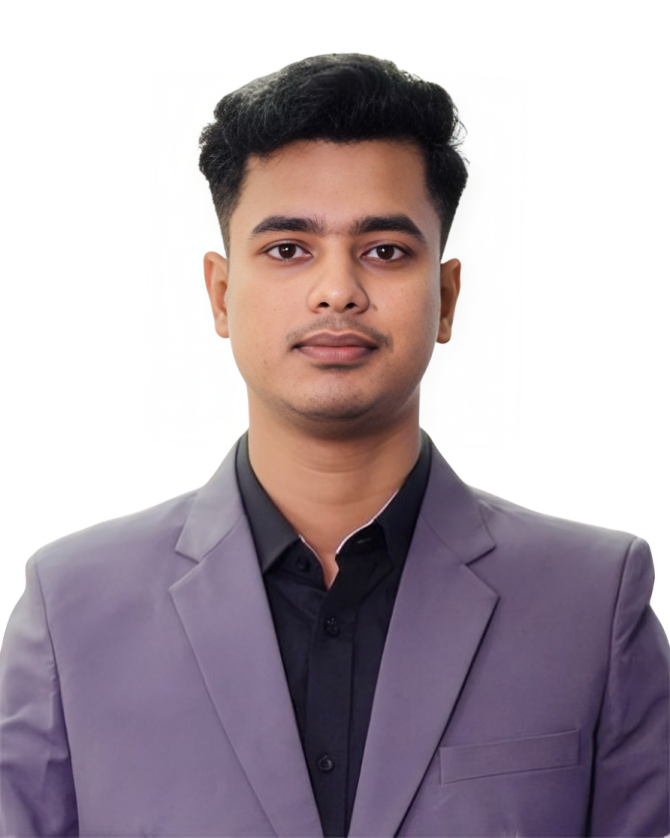
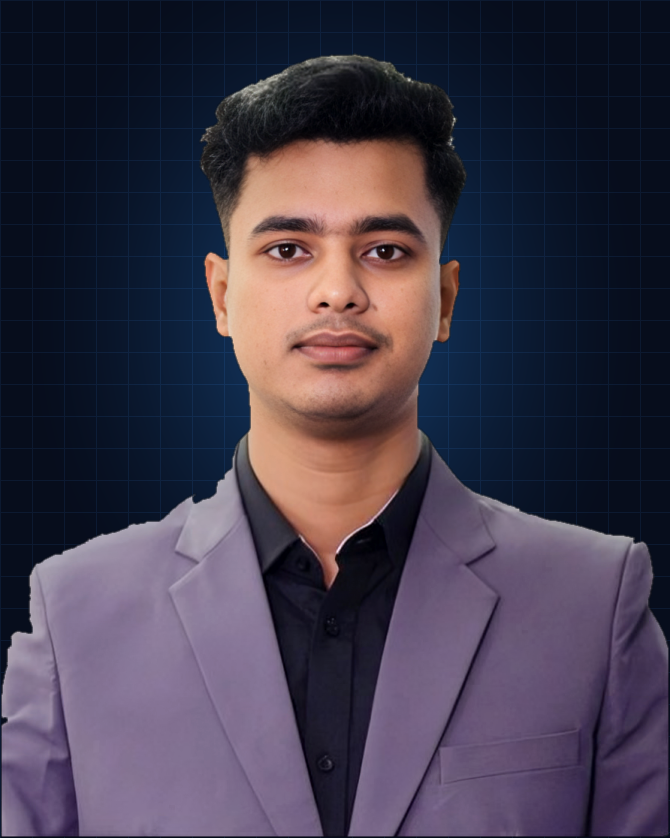
fix(ui): studio dark-cyber portrait, photo gallery switcher, local SVG telemetry, and 1-click social contact buttons

diff --git a/index.html b/index.html
@@ -190,6 +190,7 @@
         <a href="#bento" class="px-3.5 py-1.5 rounded-lg hover:bg-slate-800 hover:text-sky-400 transition">Architecture</a>
         <a href="#projects" class="px-3.5 py-1.5 rounded-lg hover:bg-slate-800 hover:text-sky-400 transition">Projects</a>
         <a href="#terminal-section" class="px-3.5 py-1.5 rounded-lg hover:bg-slate-800 hover:text-sky-400 transition">AI CLI</a>
+        <a href="#gallery" class="px-3.5 py-1.5 rounded-lg hover:bg-slate-800 hover:text-sky-400 transition">Photos</a>
         <a href="#stats" class="px-3.5 py-1.5 rounded-lg hover:bg-slate-800 hover:text-sky-400 transition">GitHub Metrics</a>
         <a href="#contact" class="px-3.5 py-1.5 rounded-lg hover:bg-slate-800 hover:text-sky-400 transition">Contact</a>
       </nav>
@@ -300,6 +301,7 @@
             <!-- Portrait Container -->
             <div class="relative w-64 h-64 sm:w-72 sm:h-72 lg:w-80 lg:h-80 rounded-3xl overflow-hidden bg-gradient-to-b from-slate-800/80 to-slate-950 border-2 border-sky-400/40 shadow-2xl shadow-sky-500/20 group">
               <img 
+                id="hero-portrait-img"
                 src="sabbir-avatar.png" 
                 width="320"
                 height="320"
@@ -688,23 +690,75 @@
 
         <div class="grid md:grid-cols-2 gap-6 mb-6">
           <div class="bento-card rounded-3xl p-4 flex items-center justify-center">
-            <img class="w-full max-w-md" loading="lazy" src="https://github-readme-stats.vercel.app/api?username=sabbirhossain-git&show_icons=true&theme=tokyonight&include_all_commits=true&count_private=true&hide_border=true&bg_color=00000000&title_color=38BDF8&icon_color=2DD4BF&text_color=E2E8F0" alt="Sabbir Hossain GitHub Stats" />
+            <img class="w-full max-w-md" loading="lazy" src="assets/img/github-stats.svg" alt="Sabbir Hossain GitHub Stats" />
           </div>
           <div class="bento-card rounded-3xl p-4 flex items-center justify-center">
-            <img class="w-full max-w-md" loading="lazy" src="https://streak-stats.demolab.com?user=sabbirhossain-git&theme=tokyonight&hide_border=true&background=00000000&ring=38BDF8&fire=2DD4BF&currStreakLabel=38BDF8" alt="Sabbir Hossain GitHub Streak" />
+            <img class="w-full max-w-md" loading="lazy" src="assets/img/github-langs.svg" alt="Sabbir Hossain Core Languages" />
           </div>
         </div>
 
         <!-- Contribution Snake Card -->
         <div class="bento-card rounded-3xl p-6 text-center">
-          <div class="text-xs font-mono text-sky-400 mb-3">AUTOMATED GITHUB ACTIONS CONTRIBUTION SNAKE</div>
+          <div class="text-xs font-mono text-sky-400 mb-3">AUTOMATED GITHUB CONTRIBUTION TELEMETRY MATRIX</div>
           <img 
             class="mx-auto w-full max-w-4xl" 
             loading="lazy"
-            src="https://raw.githubusercontent.com/sabbirhossain-git/sabbirhossain-git/output/github-contribution-grid-snake-dark.svg" 
-            onerror="this.onerror=null; this.src='https://github-readme-activity-graph.vercel.app/graph?username=sabbirhossain-git&bg_color=0D1117&color=38BDF8&line=2DD4BF&point=FFFFFF&area=true&hide_border=true';"
-            alt="GitHub Contribution Snake Animation" 
+            src="assets/img/github-snake.svg" 
+            alt="GitHub Contribution Matrix Animation" 
           />
+        </div>
+      </div>
+    </section>
+
+    <!-- PHOTO GALLERY & PORTRAIT SWITCHER SECTION -->
+    <section id="gallery" class="relative z-10 py-24 px-6 border-t border-slate-800/60">
+      <div class="max-w-6xl mx-auto reveal">
+        <div class="text-center max-w-2xl mx-auto mb-14">
+          <span class="font-mono text-xs uppercase tracking-widest text-purple-400 bg-purple-500/10 border border-purple-500/20 px-3 py-1 rounded-full">04.5 // Portrait &amp; Moments Gallery</span>
+          <h2 class="text-3xl sm:text-5xl font-black text-white mt-4 tracking-tight">Photos &amp; Identity</h2>
+          <p class="text-slate-400 mt-2 text-sm">Click any portrait below to preview it in the 3D Hero Portal above. Ready for adding future event, robotics lab, and project photos.</p>
+        </div>
+
+        <div class="grid grid-cols-2 md:grid-cols-4 gap-6">
+          <button onclick="document.getElementById('hero-portrait-img').src='sabbir-avatar.png'; window.location.hash='#hero';" class="bento-card rounded-3xl p-3 text-left group cursor-pointer">
+            <div class="aspect-[4/5] rounded-2xl overflow-hidden bg-slate-900 mb-3 border border-slate-800">
+              <img src="sabbir-avatar.png" alt="Sabbir Hossain — Executive Suit Portrait" class="w-full h-full object-cover object-top group-hover:scale-105 transition duration-500" />
+            </div>
+            <div class="px-2 pb-1">
+              <div class="text-xs font-bold text-white">Executive Studio</div>
+              <div class="text-[11px] font-mono text-sky-400">Primary Portrait • HD</div>
+            </div>
+          </button>
+
+          <button onclick="document.getElementById('hero-portrait-img').src='assets/img/sabbir-photo-2.jpg'; window.location.hash='#hero';" class="bento-card rounded-3xl p-3 text-left group cursor-pointer">
+            <div class="aspect-[4/5] rounded-2xl overflow-hidden bg-slate-900 mb-3 border border-slate-800">
+              <img src="assets/img/sabbir-photo-2.jpg" alt="Sabbir Hossain — Casual Portrait" class="w-full h-full object-cover object-top group-hover:scale-105 transition duration-500" />
+            </div>
+            <div class="px-2 pb-1">
+              <div class="text-xs font-bold text-white">Developer Casual</div>
+              <div class="text-[11px] font-mono text-teal-400">Click to Set in Hero</div>
+            </div>
+          </button>
+
+          <button onclick="document.getElementById('hero-portrait-img').src='assets/img/sabbir-photo-3.jpg'; window.location.hash='#hero';" class="bento-card rounded-3xl p-3 text-left group cursor-pointer">
+            <div class="aspect-[4/5] rounded-2xl overflow-hidden bg-slate-900 mb-3 border border-slate-800">
+              <img src="assets/img/sabbir-photo-3.jpg" alt="Sabbir Hossain — Campus Portrait" class="w-full h-full object-cover object-top group-hover:scale-105 transition duration-500" />
+            </div>
+            <div class="px-2 pb-1">
+              <div class="text-xs font-bold text-white">Academic &amp; Lab</div>
+              <div class="text-[11px] font-mono text-purple-400">Click to Set in Hero</div>
+            </div>
+          </button>
+
+          <button onclick="document.getElementById('hero-portrait-img').src='assets/img/sabbir-photo-4.jpg'; window.location.hash='#hero';" class="bento-card rounded-3xl p-3 text-left group cursor-pointer">
+            <div class="aspect-[4/5] rounded-2xl overflow-hidden bg-slate-900 mb-3 border border-slate-800">
+              <img src="assets/img/sabbir-photo-4.jpg" alt="Sabbir Hossain — Denim Portrait" class="w-full h-full object-cover object-top group-hover:scale-105 transition duration-500" />
+            </div>
+            <div class="px-2 pb-1">
+              <div class="text-xs font-bold text-white">Outdoor &amp; Tech</div>
+              <div class="text-[11px] font-mono text-amber-400">Click to Set in Hero</div>
+            </div>
+          </button>
         </div>
       </div>
     </section>
@@ -768,14 +822,22 @@
 
         </div>
 
-        <div class="flex flex-wrap items-center justify-center gap-4">
-          <a href="mailto:sabbirhossain50000@gmail.com" aria-label="Send Direct Email" class="px-8 py-4 rounded-xl bg-gradient-to-r from-sky-400 to-teal-400 text-slate-950 font-bold text-sm hover:opacity-95 transition shadow-xl shadow-sky-500/20 flex items-center gap-2">
-            <i class="fas fa-paper-plane"></i>
-            <span>Send Direct Email</span>
+        <div class="flex flex-wrap items-center justify-center gap-3.5">
+          <a href="https://www.facebook.com/share/1JGr1sXEsS/" target="_blank" rel="noopener" aria-label="Open Facebook Profile" class="px-6 py-3.5 rounded-xl bg-[#1877F2] text-white font-bold text-sm hover:opacity-95 transition shadow-lg shadow-[#1877F2]/25 flex items-center gap-2">
+            <i class="fab fa-facebook-f"></i>
+            <span>Facebook Profile</span>
           </a>
-          <a href="tel:+8801307919989" aria-label="Call 01307919989" class="px-8 py-4 rounded-xl bg-slate-900 border border-slate-700 text-white font-semibold text-sm hover:border-emerald-400 transition flex items-center gap-2">
-            <i class="fas fa-phone text-emerald-400"></i>
-            <span>Call: 01307919989</span>
+          <a href="https://wa.me/8801307919989" target="_blank" rel="noopener" aria-label="Chat on WhatsApp 01307919989" class="px-6 py-3.5 rounded-xl bg-emerald-500 text-slate-950 font-bold text-sm hover:opacity-95 transition shadow-lg shadow-emerald-500/25 flex items-center gap-2">
+            <i class="fab fa-whatsapp text-base"></i>
+            <span>WhatsApp: 01307919989</span>
+          </a>
+          <a href="https://www.instagram.com/s.a.b.b.i.r__h.o.s.s.a.i.n" target="_blank" rel="noopener" aria-label="Open Instagram Profile" class="px-6 py-3.5 rounded-xl bg-gradient-to-r from-pink-500 to-rose-500 text-white font-bold text-sm hover:opacity-95 transition shadow-lg shadow-pink-500/25 flex items-center gap-2">
+            <i class="fab fa-instagram text-base"></i>
+            <span>Instagram Profile</span>
+          </a>
+          <a href="mailto:sabbirhossain50000@gmail.com" aria-label="Send Direct Email" class="px-6 py-3.5 rounded-xl bg-gradient-to-r from-sky-400 to-teal-400 text-slate-950 font-bold text-sm hover:opacity-95 transition shadow-lg shadow-sky-500/25 flex items-center gap-2">
+            <i class="fas fa-envelope"></i>
+            <span>Email: sabbirhossain50000@gmail.com</span>
           </a>
         </div>
       </div>

diff --git a/README.md b/README.md
@@ -83,49 +83,21 @@ I am a **Software Engineering & IoT Developer** and a **University Student** maj
 
 ---
 
-### 📊 GitHub Analytics & Contribution Metrics
+### 📊 GitHub Analytics & Engineering Telemetry
 
 <div align="center">
 
 <a href="https://github.com/sabbirhossain-git">
-  <img height="180em" src="https://github-readme-stats.vercel.app/api?username=sabbirhossain-git&show_icons=true&theme=tokyonight&include_all_commits=true&count_private=true&hide_border=true&bg_color=0D1117&title_color=38BDF8&icon_color=38BDF8&text_color=C9D1D9" alt="Sabbir's GitHub Stats" />
-  <img height="180em" src="https://github-readme-stats.vercel.app/api/top-langs/?username=sabbirhossain-git&layout=compact&langs_count=8&theme=tokyonight&hide_border=true&bg_color=0D1117&title_color=38BDF8&text_color=C9D1D9" alt="Top Languages" />
+  <img width="48%" src="https://raw.githubusercontent.com/sabbirhossain-git/sabbirhossain-git/main/assets/img/github-stats.svg" alt="Sabbir's GitHub Stats" />
+  <img width="48%" src="https://raw.githubusercontent.com/sabbirhossain-git/sabbirhossain-git/main/assets/img/github-langs.svg" alt="Top Languages" />
 </a>
 
-<br/>
+<br/><br/>
 
 <a href="https://github.com/sabbirhossain-git">
-  <img src="https://streak-stats.demolab.com?user=sabbirhossain-git&theme=tokyonight&hide_border=true&background=0D1117&ring=38BDF8&fire=38BDF8&currStreakLabel=38BDF8" alt="GitHub Streak" />
+  <img width="98%" src="https://raw.githubusercontent.com/sabbirhossain-git/sabbirhossain-git/main/assets/img/github-snake.svg" alt="GitHub Contribution Matrix" />
 </a>
 
-<br/>
-
-<a href="https://github.com/sabbirhossain-git">
-  <img width="98%" src="https://github-readme-activity-graph.vercel.app/graph?username=sabbirhossain-git&bg_color=0D1117&color=38BDF8&line=38BDF8&point=FFFFFF&area=true&hide_border=true" alt="Contribution Activity Graph" />
-</a>
-
-</div>
-
----
-
-### 🏆 GitHub Profile Trophies
-
-<div align="center">
-  <a href="https://github.com/ryo-ma/github-profile-trophy">
-    <img src="https://github-profile-trophy.vercel.app/?username=sabbirhossain-git&theme=tokyonight&no-frame=true&no-bg=true&margin-w=4&row=1&column=7" alt="GitHub Trophies" />
-  </a>
-</div>
-
----
-
-### 🐍 Contribution Graph Snake Animation
-
-<div align="center">
-  <picture>
-    <source media="(prefers-color-scheme: dark)" srcset="https://raw.githubusercontent.com/sabbirhossain-git/sabbirhossain-git/output/github-contribution-grid-snake-dark.svg" />
-    <source media="(prefers-color-scheme: light)" srcset="https://raw.githubusercontent.com/sabbirhossain-git/sabbirhossain-git/output/github-contribution-grid-snake.svg" />
-    <img alt="github-snake" src="https://raw.githubusercontent.com/sabbirhossain-git/sabbirhossain-git/output/github-contribution-grid-snake-dark.svg" />
-  </picture>
 </div>
 
 ---
